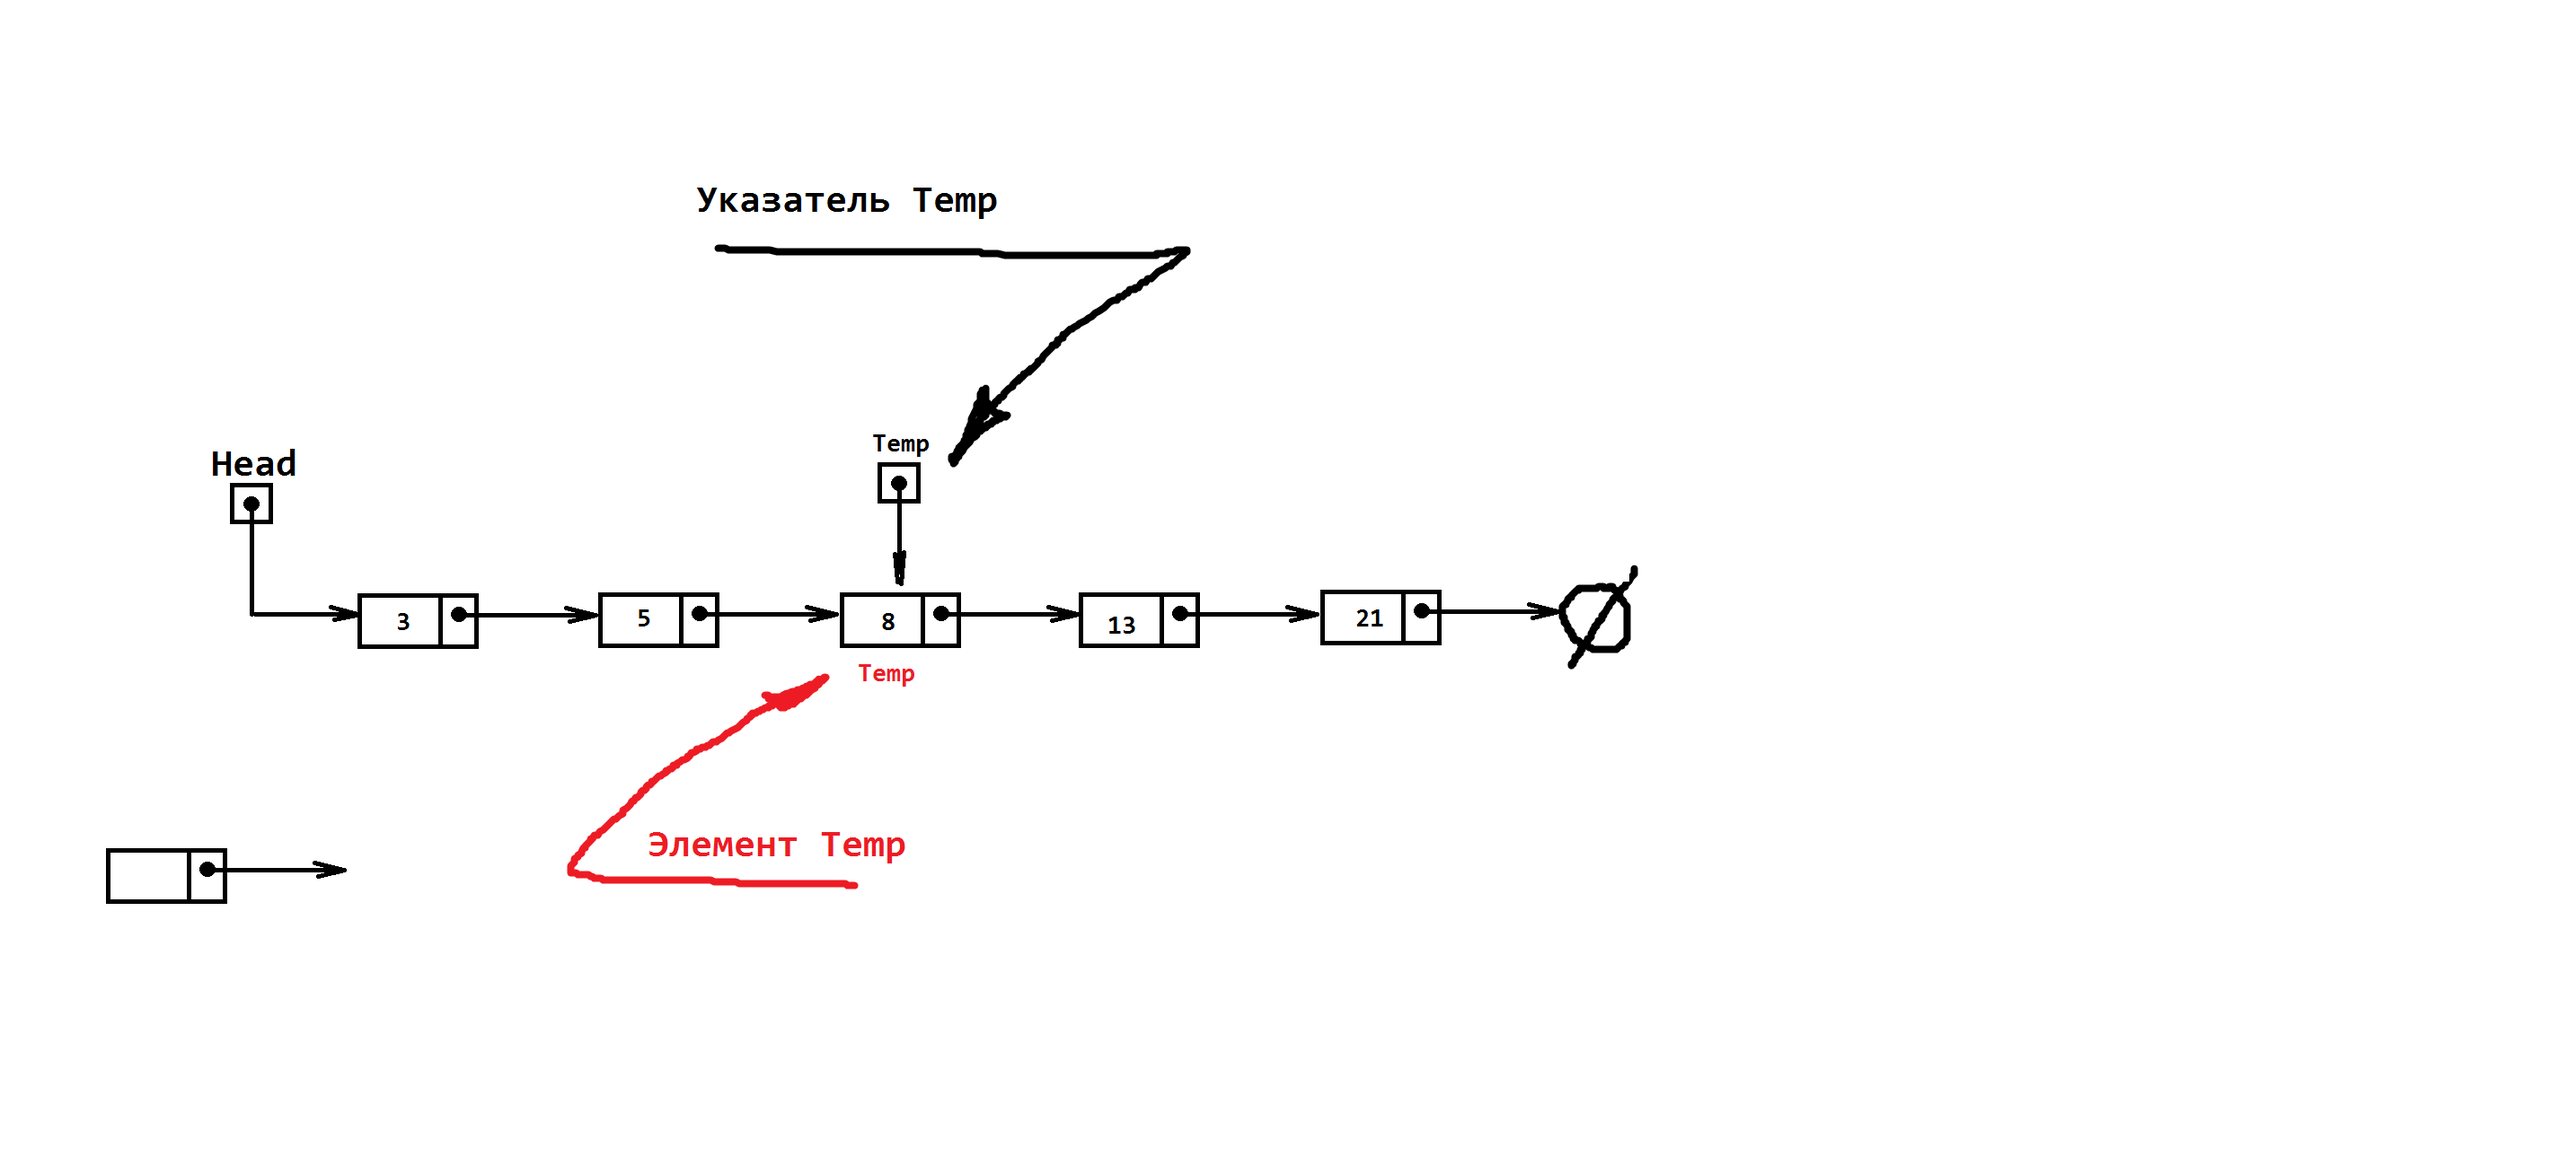
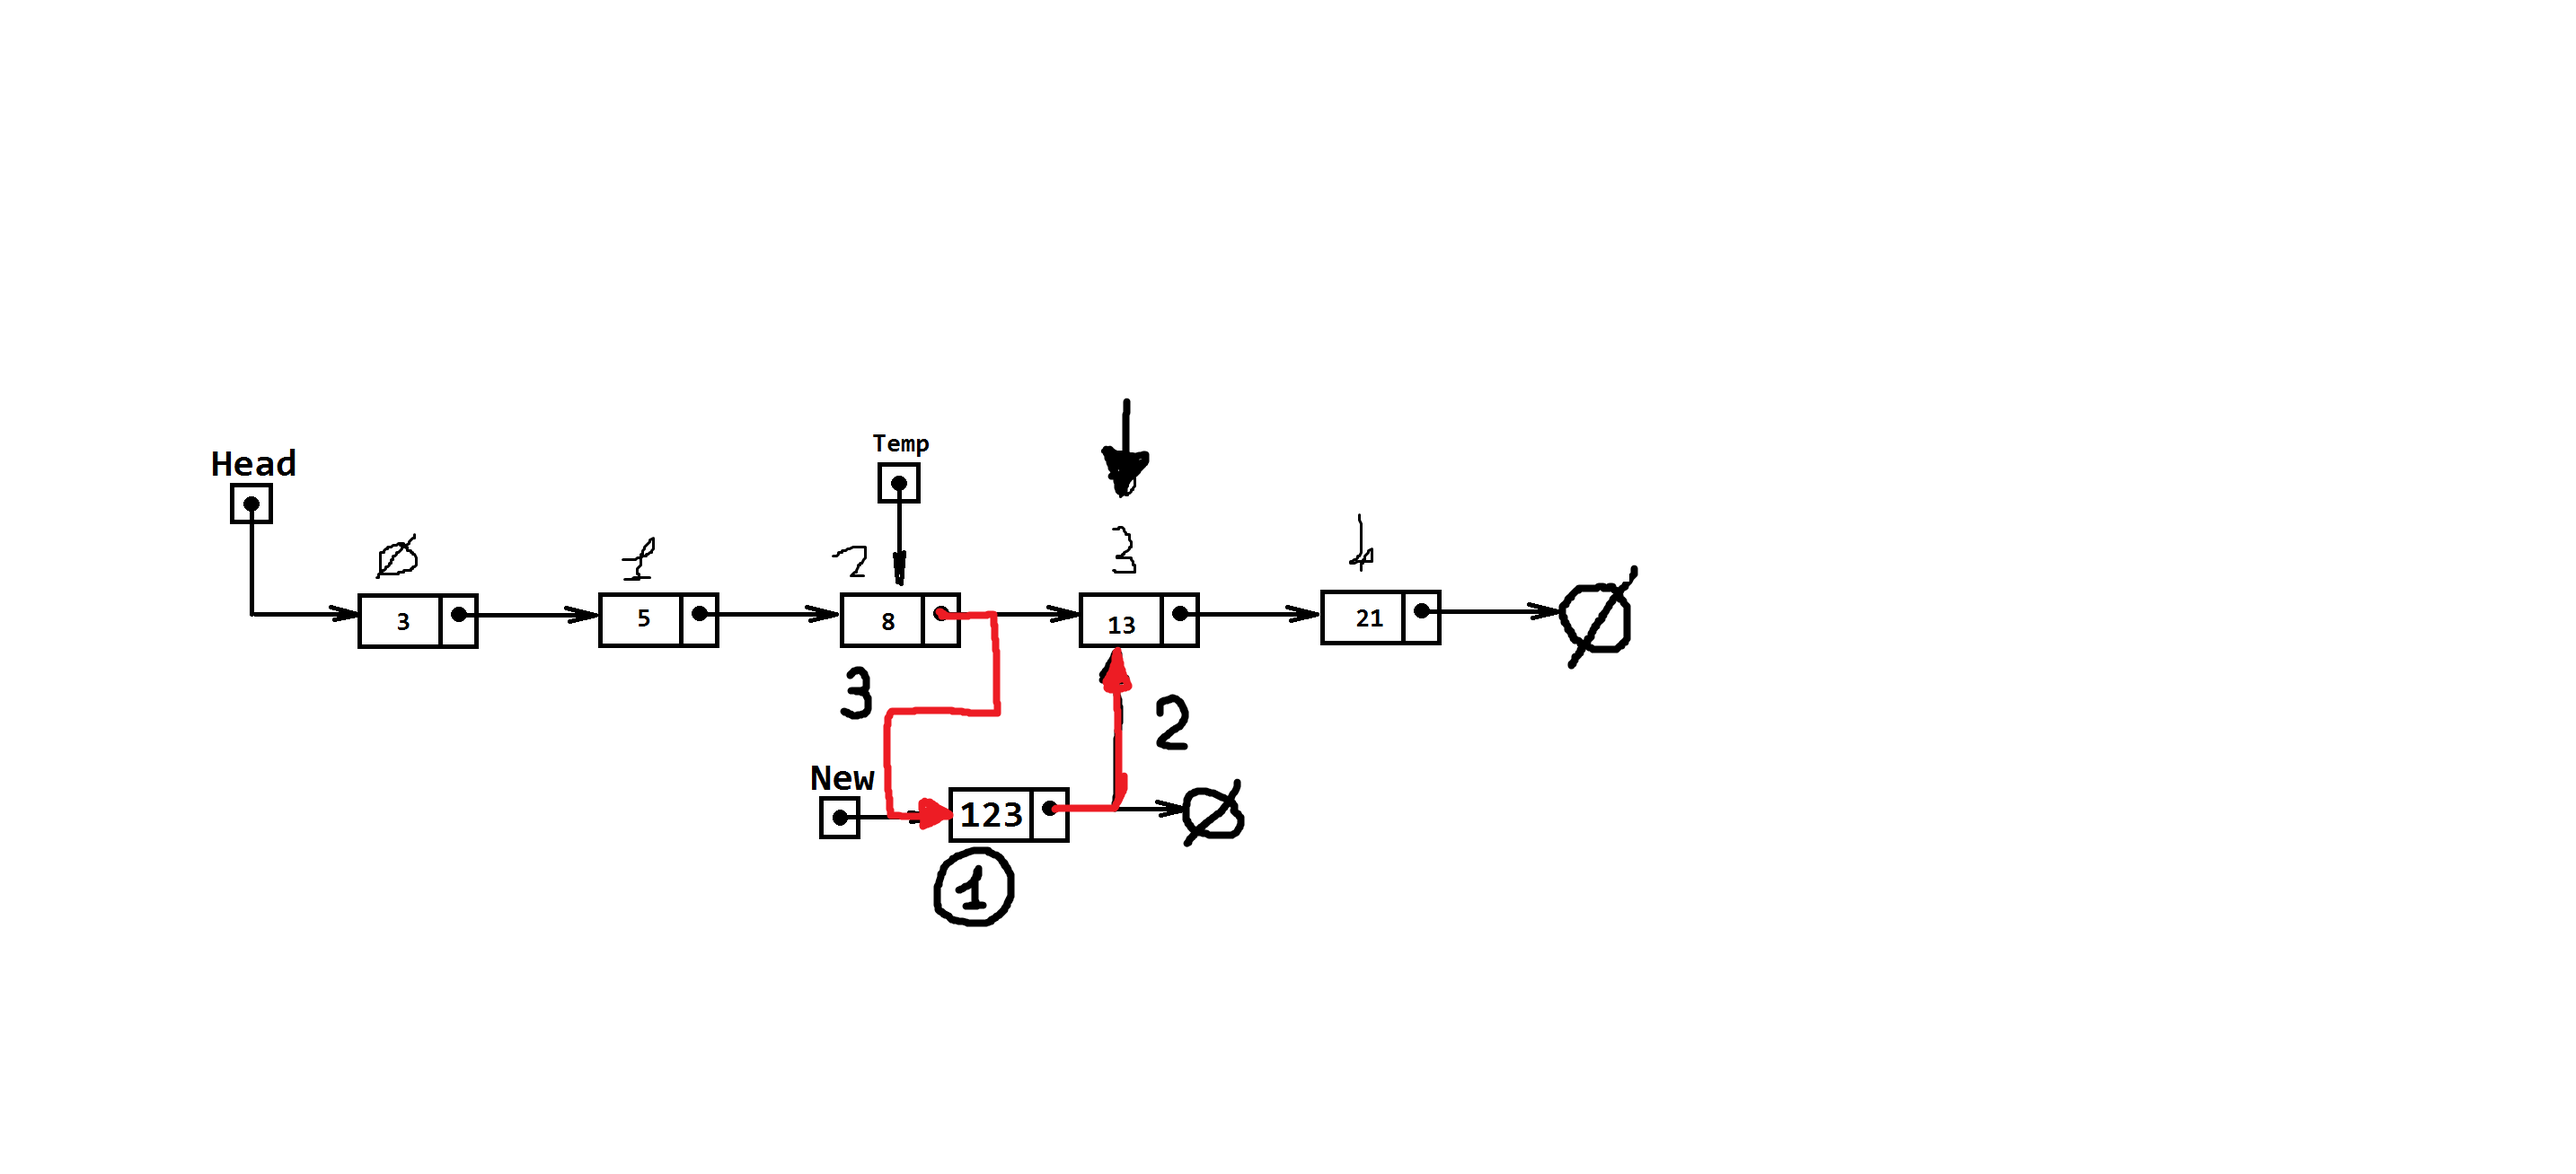
ForwardList day 3

diff --git a/DataContainers/ForwardList/main.cpp b/DataContainers/ForwardList/main.cpp
@@ -32,26 +32,57 @@ class ForwardList
 {
 	Element* Head;	//Указывает на начальный элемен списка. 
 	//Является точкой входа в список.
+	size_t size;
 public:
 	ForwardList()
 	{
 		this->Head = nullptr;	//Если Голова указывает на 0, значит список пуст
+		size = 0;
 		cout << "LConstructor:\t" << this << endl;
+	}
+	ForwardList(const std::initializer_list<int>& il) :ForwardList()
+	{
+		//begin()	- возвращает итератор на начальный элемент контейнера
+		//end()		- возвращает итератор на конец контейнера
+		for (const int* it = il.begin(); it != il.end(); it++)
+		{
+			//it - итератор для проходжения по il (initializer_list)
+			push_back(*it);
+		}
+	}
+	ForwardList(const ForwardList& other)
+	{
+		for (Element* Temp = other.Head; Temp; Temp = Temp->pNext)this->push_back(Temp->Data);
+		cout << "LCopyConstructor:" << this << endl;
 	}
 	~ForwardList()
 	{
+		while (Head)pop_front();
 		cout << "LDestructor:\t" << this << endl;
+		cout << "-----------------------------------------------\n";
+	}
+
+	//						Operators:
+	ForwardList& operator=(const ForwardList& other)
+	{
+		if (this == &other)return *this;
+		while (Head)pop_front();
+		for (Element* Temp = other.Head; Temp; Temp = Temp->pNext)this->push_back(Temp->Data);
+		cout << "LCopyAssignment:" << this << endl;
+		return *this;
 	}
 
 	//						Adding elements:
 	void push_front(int Data)
 	{
 		//1) Создаем элемент:
-		Element* New = new Element(Data);
+		//Element* New = new Element(Data, Head);
 		//2) Присоединяем новый элемент к списку:
-		New->pNext = Head;
+		//New->pNext = Head;
 		//3) Переносим Голову на Новый элемент:
-		Head = New;
+		//Head = New;
+		Head = new Element(Data, Head);
+		size++;
 	}
 	void push_back(int Data)
 	{
@@ -60,6 +91,7 @@ public:
 		while (Temp->pNext)
 			Temp = Temp->pNext;
 		Temp->pNext = new Element(Data);
+		size++;
 	}
 	void insert(int Data, int Index)
 	{
@@ -75,13 +107,15 @@ public:
 		for (int i = 0; i < Index - 1; i++)Temp = Temp->pNext;
 
 		//1) Создаем новый элемент:
-		Element* New = new Element(Data);
-		
+		//Element* New = new Element(Data);
 		//Осуществляем вставку нового элемента в список:
 		//2) Привязываем новый элемент к списку:
-		New->pNext = Temp->pNext;
+		//New->pNext = Temp->pNext;
 		//3) Включаем элемент в список:
-		Temp->pNext = New;
+		//Temp->pNext = New;
+
+		Temp->pNext = new Element(Data, Temp->pNext);
+		size++;
 	}
 
 	//						Erasing elements:
@@ -93,6 +127,7 @@ public:
 		Head = Head->pNext;
 		//3) Удаляем элемент из списка:
 		delete Erased;
+		size--;
 	}
 	void pop_back()
 	{
@@ -108,31 +143,40 @@ public:
 		//3) "Забываем" об удаленном элементе, то есть затираем его адрес нулем:
 		Temp->pNext = nullptr;
 		//Теперь Temp является последним элементом списка.
+		size--;
 	}
 
 	//						Methods:
 	void print()const
 	{
-		Element* Temp = Head;	//Temp - это итератор.
+		/*Element* Temp = Head;	//Temp - это итератор.
 		//Итератор - это указатель, при помощи которого можно получить доступ к элементам структуры данных.
 		while (Temp != nullptr)
 		{
 			cout << Temp << tab << Temp->Data << tab << Temp->pNext << endl;
 			Temp = Temp->pNext;	//Переход на следующий элемент.
-		}
-		cout << "Количетсво элементов списка: " << Head->count << endl;
+		}*/
+		for(Element* Temp = Head; Temp; Temp=Temp->pNext)
+			cout << Temp << tab << Temp->Data << tab << Temp->pNext << endl;
+		cout << "Количество элементов в списке: " << size << endl;
+		cout << "Общее количество элементов: " << Head->count << endl;
 	}
 };
+
+//#define BASE_CHECK
+//#define COUNT_CHECK
+//#define COPY_METHODS_CHECK
 
 void main()
 {
 	setlocale(LC_ALL, "");
+#ifdef BASE_CHECK
 	int n;	//Размер списка
 	cout << "Введите размер списка: "; cin >> n;
 	ForwardList list;
 	for (int i = 0; i < n; i++)
 	{
-		list.push_back(rand() % 100);
+		list.push_front(rand() % 100);
 	}
 	list.print();
 	/*list.pop_back();
@@ -147,5 +191,48 @@ void main()
 	cout << "Введите индекс добавляемого элемента: "; cin >> index;
 	cout << "Введите значение добавляемого элемента: "; cin >> value;
 	list.insert(value, index);
+	list.print();
+#endif // BASE_CHECK
+
+#ifdef COUNT_CHECK
+	ForwardList list1;
+	list1.push_back(3);
+	list1.push_back(5);
+	list1.push_back(8);
+	list1.push_back(13);
+	list1.push_back(21);
+
+	ForwardList list2;
+	list2.push_back(34);
+	list2.push_back(55);
+	list2.push_back(89);
+
+	list1.print();
+	list2.print();
+#endif // COUNT_CHECK
+
+#ifdef COPY_METHODS_CHECK
+	ForwardList list1;
+	list1.push_back(3);
+	list1.push_back(5);
+	list1.push_back(8);
+	list1.push_back(13);
+	list1.push_back(21);
+	list1 = list1;
+	list1.print();
+
+
+	//ForwardList list2 = list1;	//CopyConstructor
+	ForwardList list2;
+	list2 = list1;	//CopyAssignment
+	list2.print();
+#endif // COPY_METHODS_CHECK
+
+	/*int arr[] = { 3,5,8,13,21 };
+	for (int i = 0; i < sizeof(arr) / sizeof(int); i++)
+		cout << arr[i] << tab;
+	cout << endl;*/
+
+	ForwardList list = { 3,5,8,13,21 };
 	list.print();
 }
